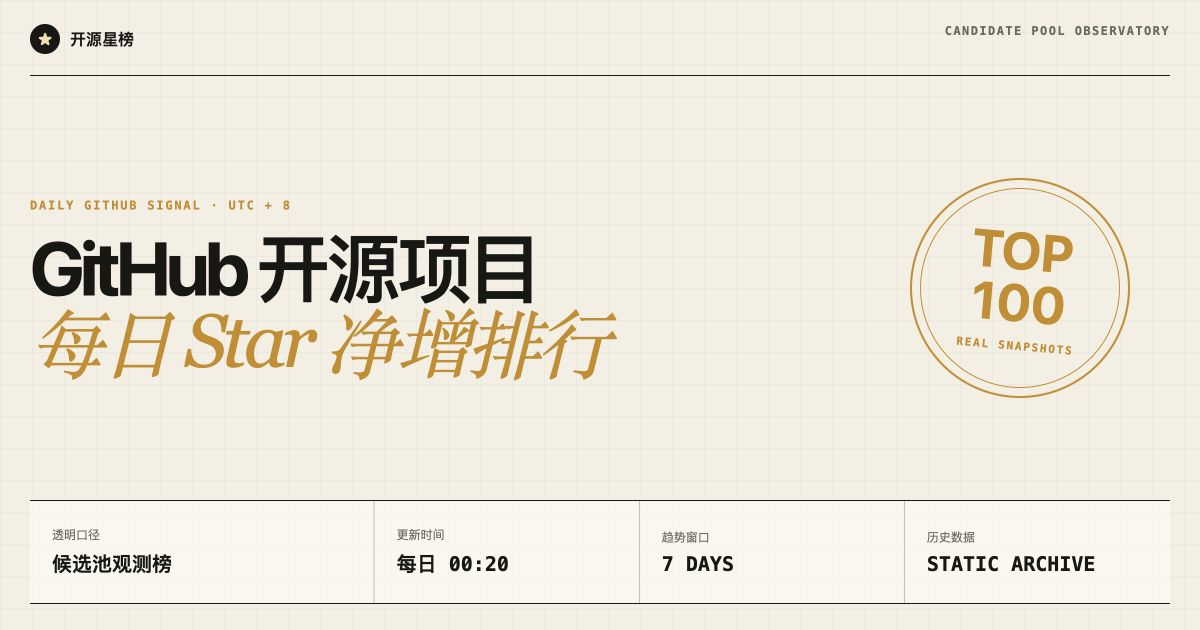
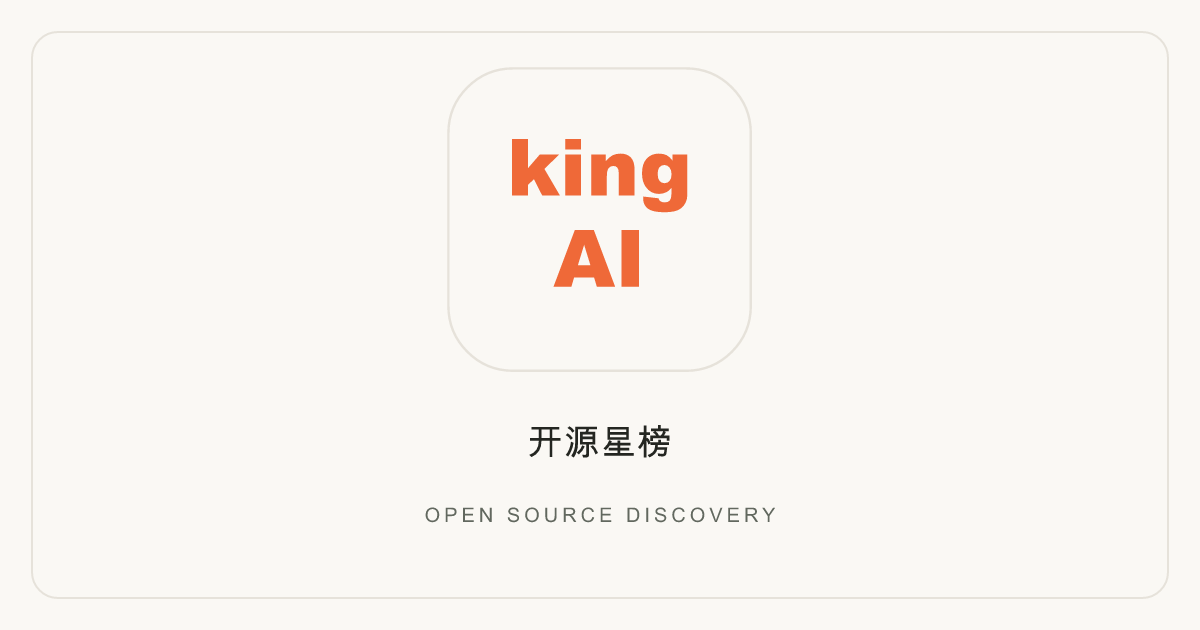
feat: adopt stacked king AI product identity

diff --git a/site/src/styles/workspace.css b/site/src/styles/workspace.css
@@ -8,6 +8,9 @@ button,a { touch-action:manipulation; }
 .workspace-sidebar { position:fixed; inset:0 auto 0 0; width:var(--sidebar-width); border-right:1px solid var(--line); background:#fdfbf8; display:flex; flex-direction:column; z-index:40; overflow:auto; }
 .workspace-sidebar .brand { min-height:94px; padding:20px 25px; gap:12px; font-size:24px; flex:none; }
 .brand small { display:block; margin-top:2px; color:var(--muted); font-size:14px; font-weight:450; letter-spacing:0; }
+.workspace-sidebar .brand { flex-direction:column; align-items:center; gap:6px; padding:20px 18px 18px; }
+.brand .kingai-logo { width:88px; height:88px; flex:none; }
+.brand .kingai-product-name { color:var(--muted); font-size:12px; font-weight:550; letter-spacing:.14em; }
 .workspace-sidebar nav { display:grid; gap:5px; padding:12px; }
 .workspace-sidebar nav a,.workspace-sidebar nav button { display:flex; gap:17px; align-items:center; min-height:48px; padding:10px 16px; border:0; border-left:3px solid transparent; border-radius:9px; font-family:inherit;font-size:15px;font-weight:550;line-height:1.3; background:transparent; color:var(--ink); text-decoration:none; cursor:pointer; text-align:left; }
 .workspace-sidebar nav a:hover,.workspace-sidebar nav button:hover { background:#f2eee7; }

diff --git a/docs/DEVELOPMENT_PROGRESS.md b/docs/DEVELOPMENT_PROGRESS.md
@@ -1,5 +1,12 @@
 # 开发进度与同步记录
 
+## 2026-09-21 king AI 纯字标
+
+- **最终设计**：按用户最新要求取消皇冠和独立 K，小写 `king` 在上、大写 `AI` 在下，均为相同字号和字重；橙色字形配圆角暖白底板。保留「开源星榜」作为产品说明。
+- **接入**：正式站侧栏与手机展开导航、SVG/PNG favicon、Apple 主屏幕图标、默认和榜单分享卡片统一使用新标识；字体转轮廓，部署不依赖本机字体。原始参考、提示词、可下载 SVG/PNG 与导出命令见 [品牌文件](design/kingai-logo/README.md)。
+- **验证**：站点 19 项单测通过；Astro 64 文件零诊断；真实数据的桌面 1487px、平板 1024px、手机 390px 浏览器检查通过，标识与图标路径返回 200、无溢出或页面脚本错误。截图见 [桌面](evidence/kingai-logo-20260921/desktop.png)和 [手机导航](evidence/kingai-logo-20260921/mobile-navigation.png)。真实数据完整构建 5,750 页、406 张榜单分享卡片与产物校验通过；四份 PNG 重导出逐字一致，独立代码复核无待处理发现。远端 CI、合并发布结果在本次 PR 跟踪。
+- **范围**：仅更新品牌展示与资产，不改变排名、采集、登录和数据覆盖规则；正式发布后还需验证页面标识、图标及分享卡片。
+
 ## 2026-09-21 正式 UI 与真实数据迁移
 
 - **实现**：将已选定的侧栏布局、暖白橙色主题、顶部搜索及项目操作迁入生产 Astro；继续消费真实候选池、日榜 Top 500（五页）与累计 Top 1000。原型仍保留六条演示记录，正式站不依赖演示数组。

diff --git a/docs/design/kingai-logo/README.md b/docs/design/kingai-logo/README.md
@@ -1,0 +1,16 @@
+# king AI 产品标识
+
+最终方向为纯字标：小写 `king` 在上、大写 `AI` 在下，两行字号与字重相同，均为 66px 字形轮廓；`AI` 自然较窄，不放大或拉伸。保留橙色和圆角暖白底板，取消皇冠与独立 K 图形。中文产品名仍为「开源星榜」。
+
+- `selected-reference.png`：用户提供的圆角底板与配色参考。
+- `refined-concept.png`：按最终指示通过内置 Image Gen 生成的参考稿。
+- `prompts.json`：四方向探索与最终调整的原始提示词；未调用外部模型 API。
+- [正式矢量标识](../../../site/public/assets/brand/kingai-logo.svg)：橙色 `#ef6938`、暖白底 `#faf8f4`、边框 `#e6e2da`。字标为 Arial Black 字形轮廓，运行时不依赖字体文件。与生成参考稿在字体细节上有区别。
+- [透明边角 PNG](../../../site/public/assets/brand/kingai-logo.png)：640 × 640 导出，可直接下载使用；暖白底板保留。
+- [通用分享卡片矢量源](../../../site/public/assets/brand/kingai-social.svg)：与榜单分享卡片使用同一完整组合标。
+
+生产 Astro 的桌面侧栏、手机展开导航、浏览器图标和主屏幕图标使用同一标识。仓库头像与功能星标继续使用原图标，避免把 king AI 误作第三方项目标识。
+
+在 `site/` 执行 `node scripts/render-brand-assets.mjs` 可从无字体依赖的 SVG 母版重新导出 PNG、32px favicon、180px Apple touch icon 和通用 `og.png`。榜单卡片由既有构建流程自动嵌入标识。
+
+上线状态与验证证据见 [开发进度](../../DEVELOPMENT_PROGRESS.md)。

diff --git a/site/public/assets/ui/README.md b/site/public/assets/ui/README.md
@@ -1,6 +1,6 @@
 # Production UI assets
 
 - `hero-star-{320,640}.webp`: unchanged copies of the original Image Gen artwork in `prototypes/starrank-ui/public/assets/`, documented by `prototypes/starrank-ui/evidence/asset-sources.json`. Decorative, empty alt text; responsive sources preserve the approved visual direction.
-- SVG icons: rendered from official `@tabler/icons-react` components (MIT, `TABLER-LICENSE.txt`), including the same `IconStarFilled` used by the approved prototype. No custom logo reconstruction.
+- SVG UI icons: rendered from official `@tabler/icons-react` components (MIT, `TABLER-LICENSE.txt`). `star.svg` remains a neutral repository-avatar fallback. Product branding is separately maintained in `../brand/` as the user-selected stacked king / AI wordmark.
 - `inter-latin.woff2`: Inter variable Latin font from the prototype's `@fontsource-variable/inter` package (SIL OFL, `INTER-LICENSE.txt`). Chinese text uses system PingFang SC / Microsoft YaHei fallbacks.
 - Project avatars are the actual GitHub owner avatars from validated ranking data, restricted to `https://avatars.githubusercontent.com/`. The StarRank icon is a neutral fallback when the source omits an avatar; the six demo project logos are not assigned to unrelated real repositories.
